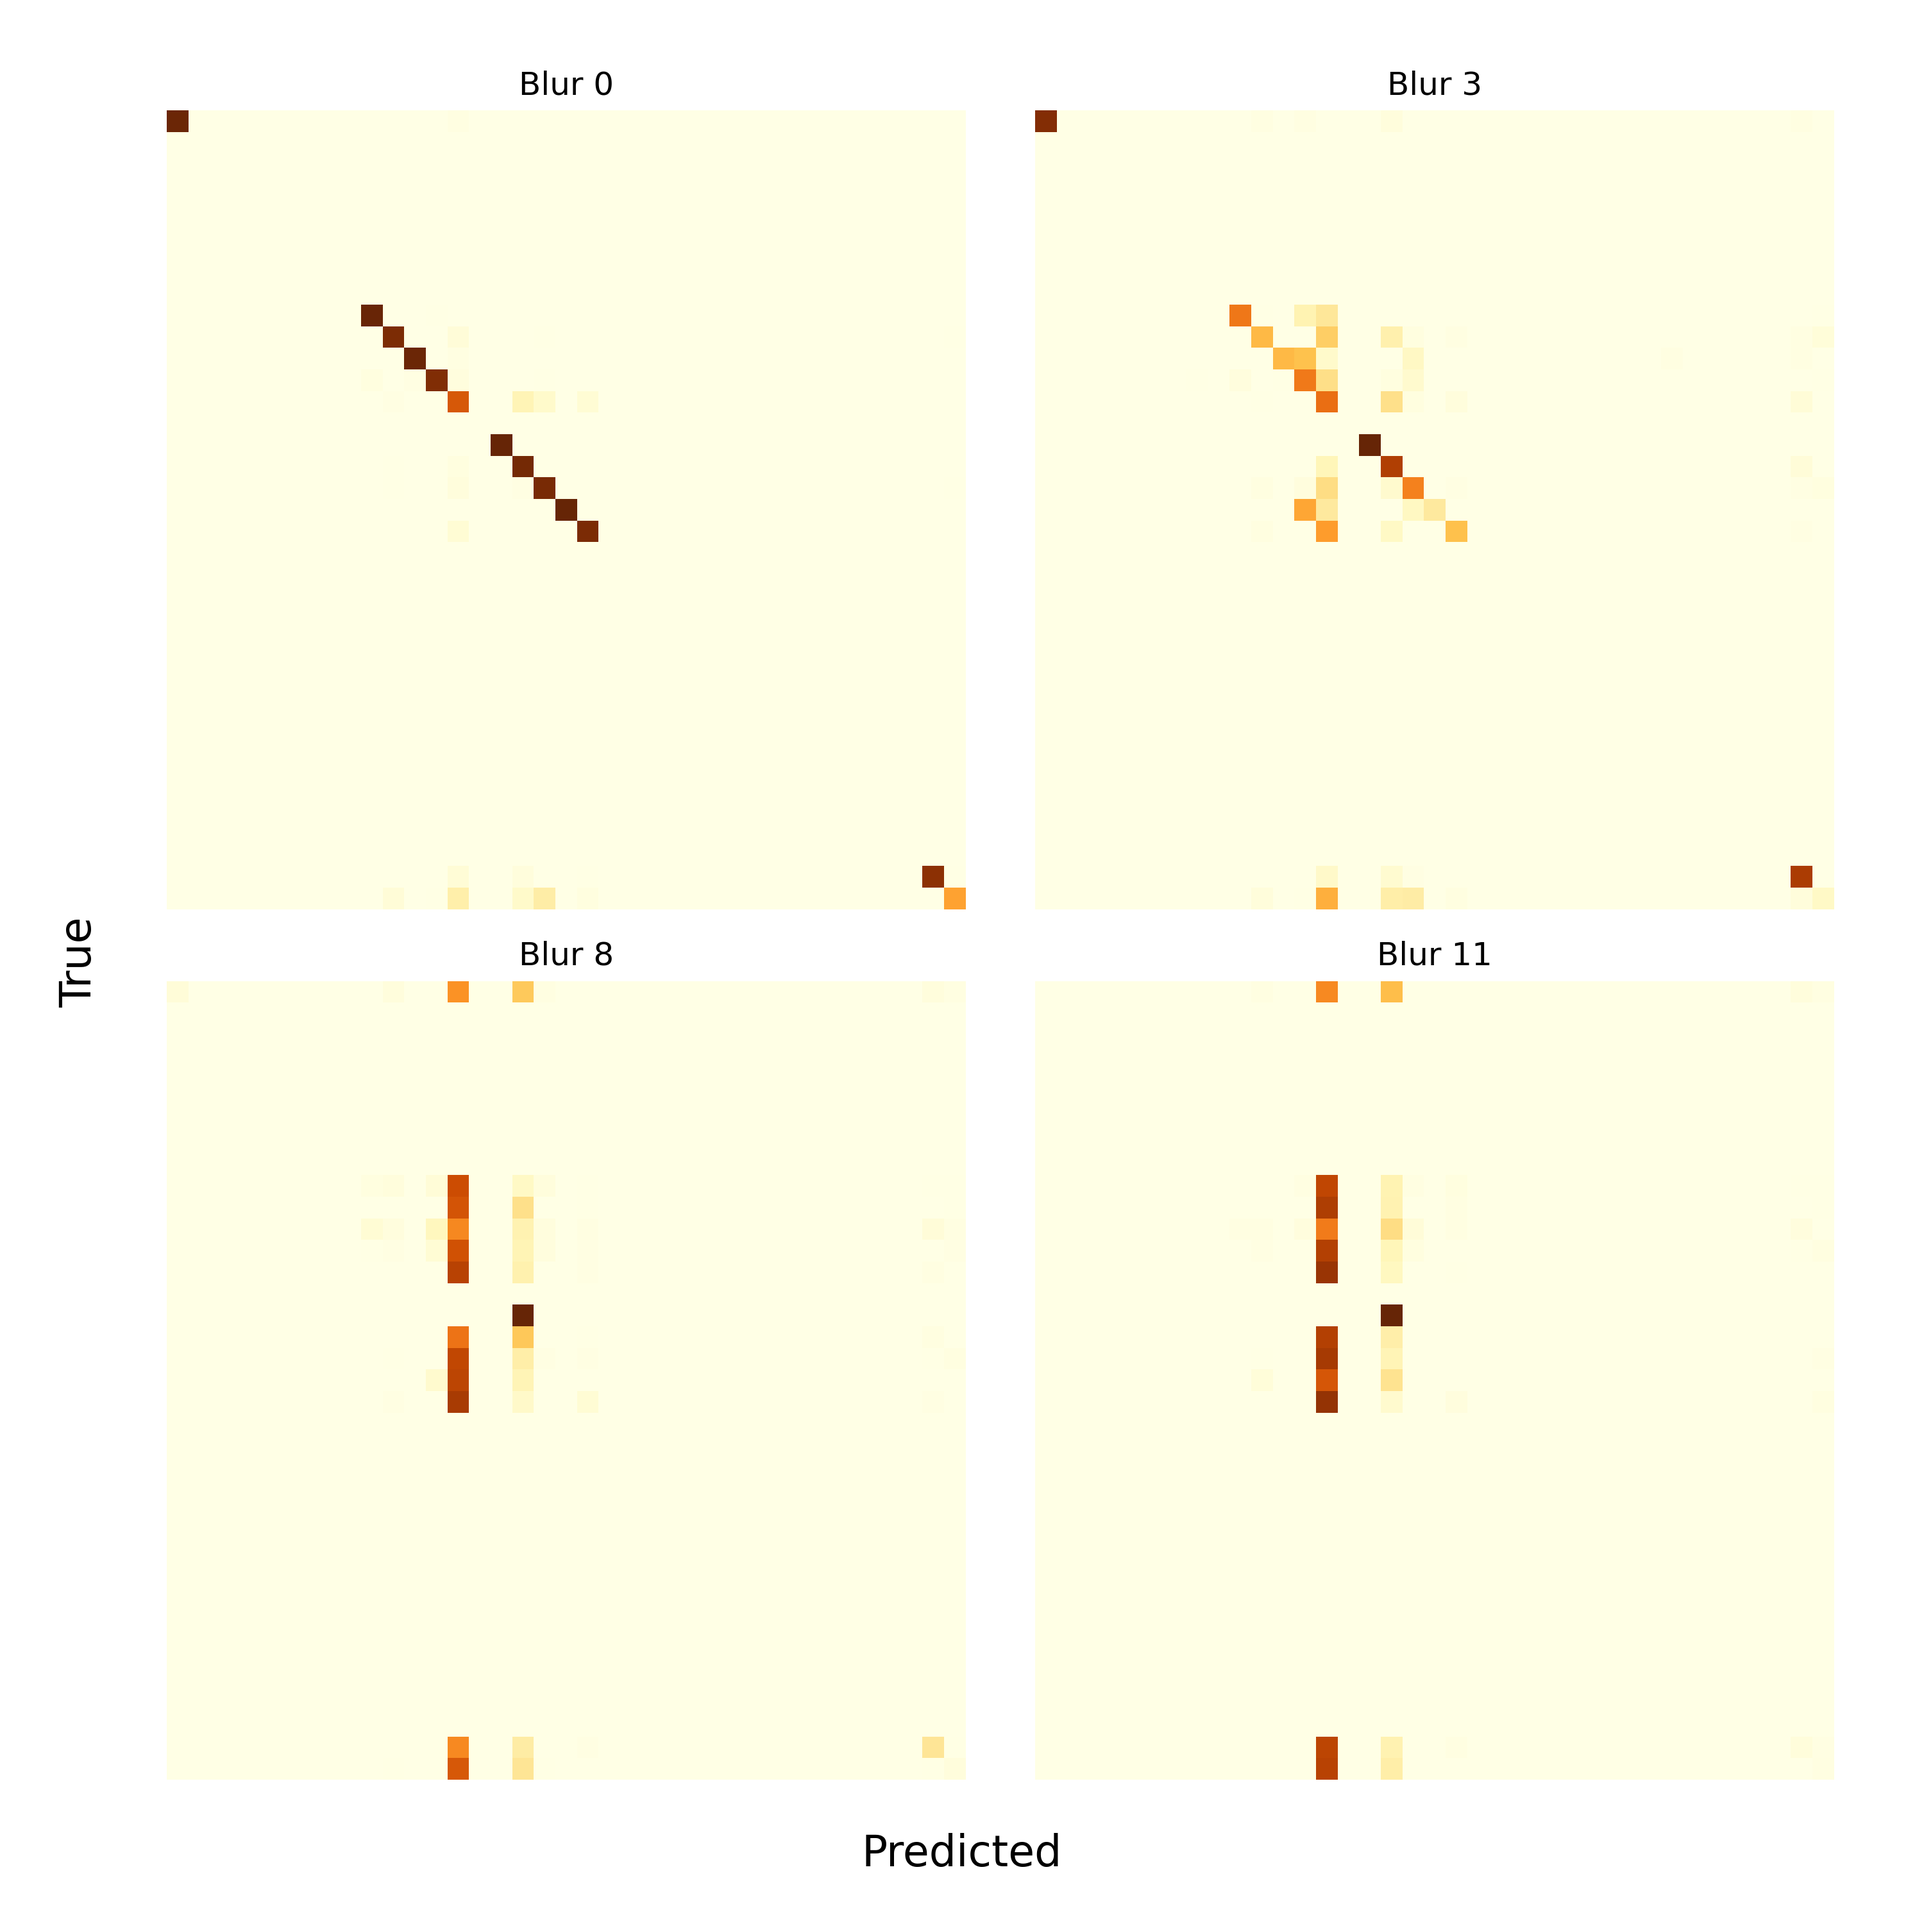
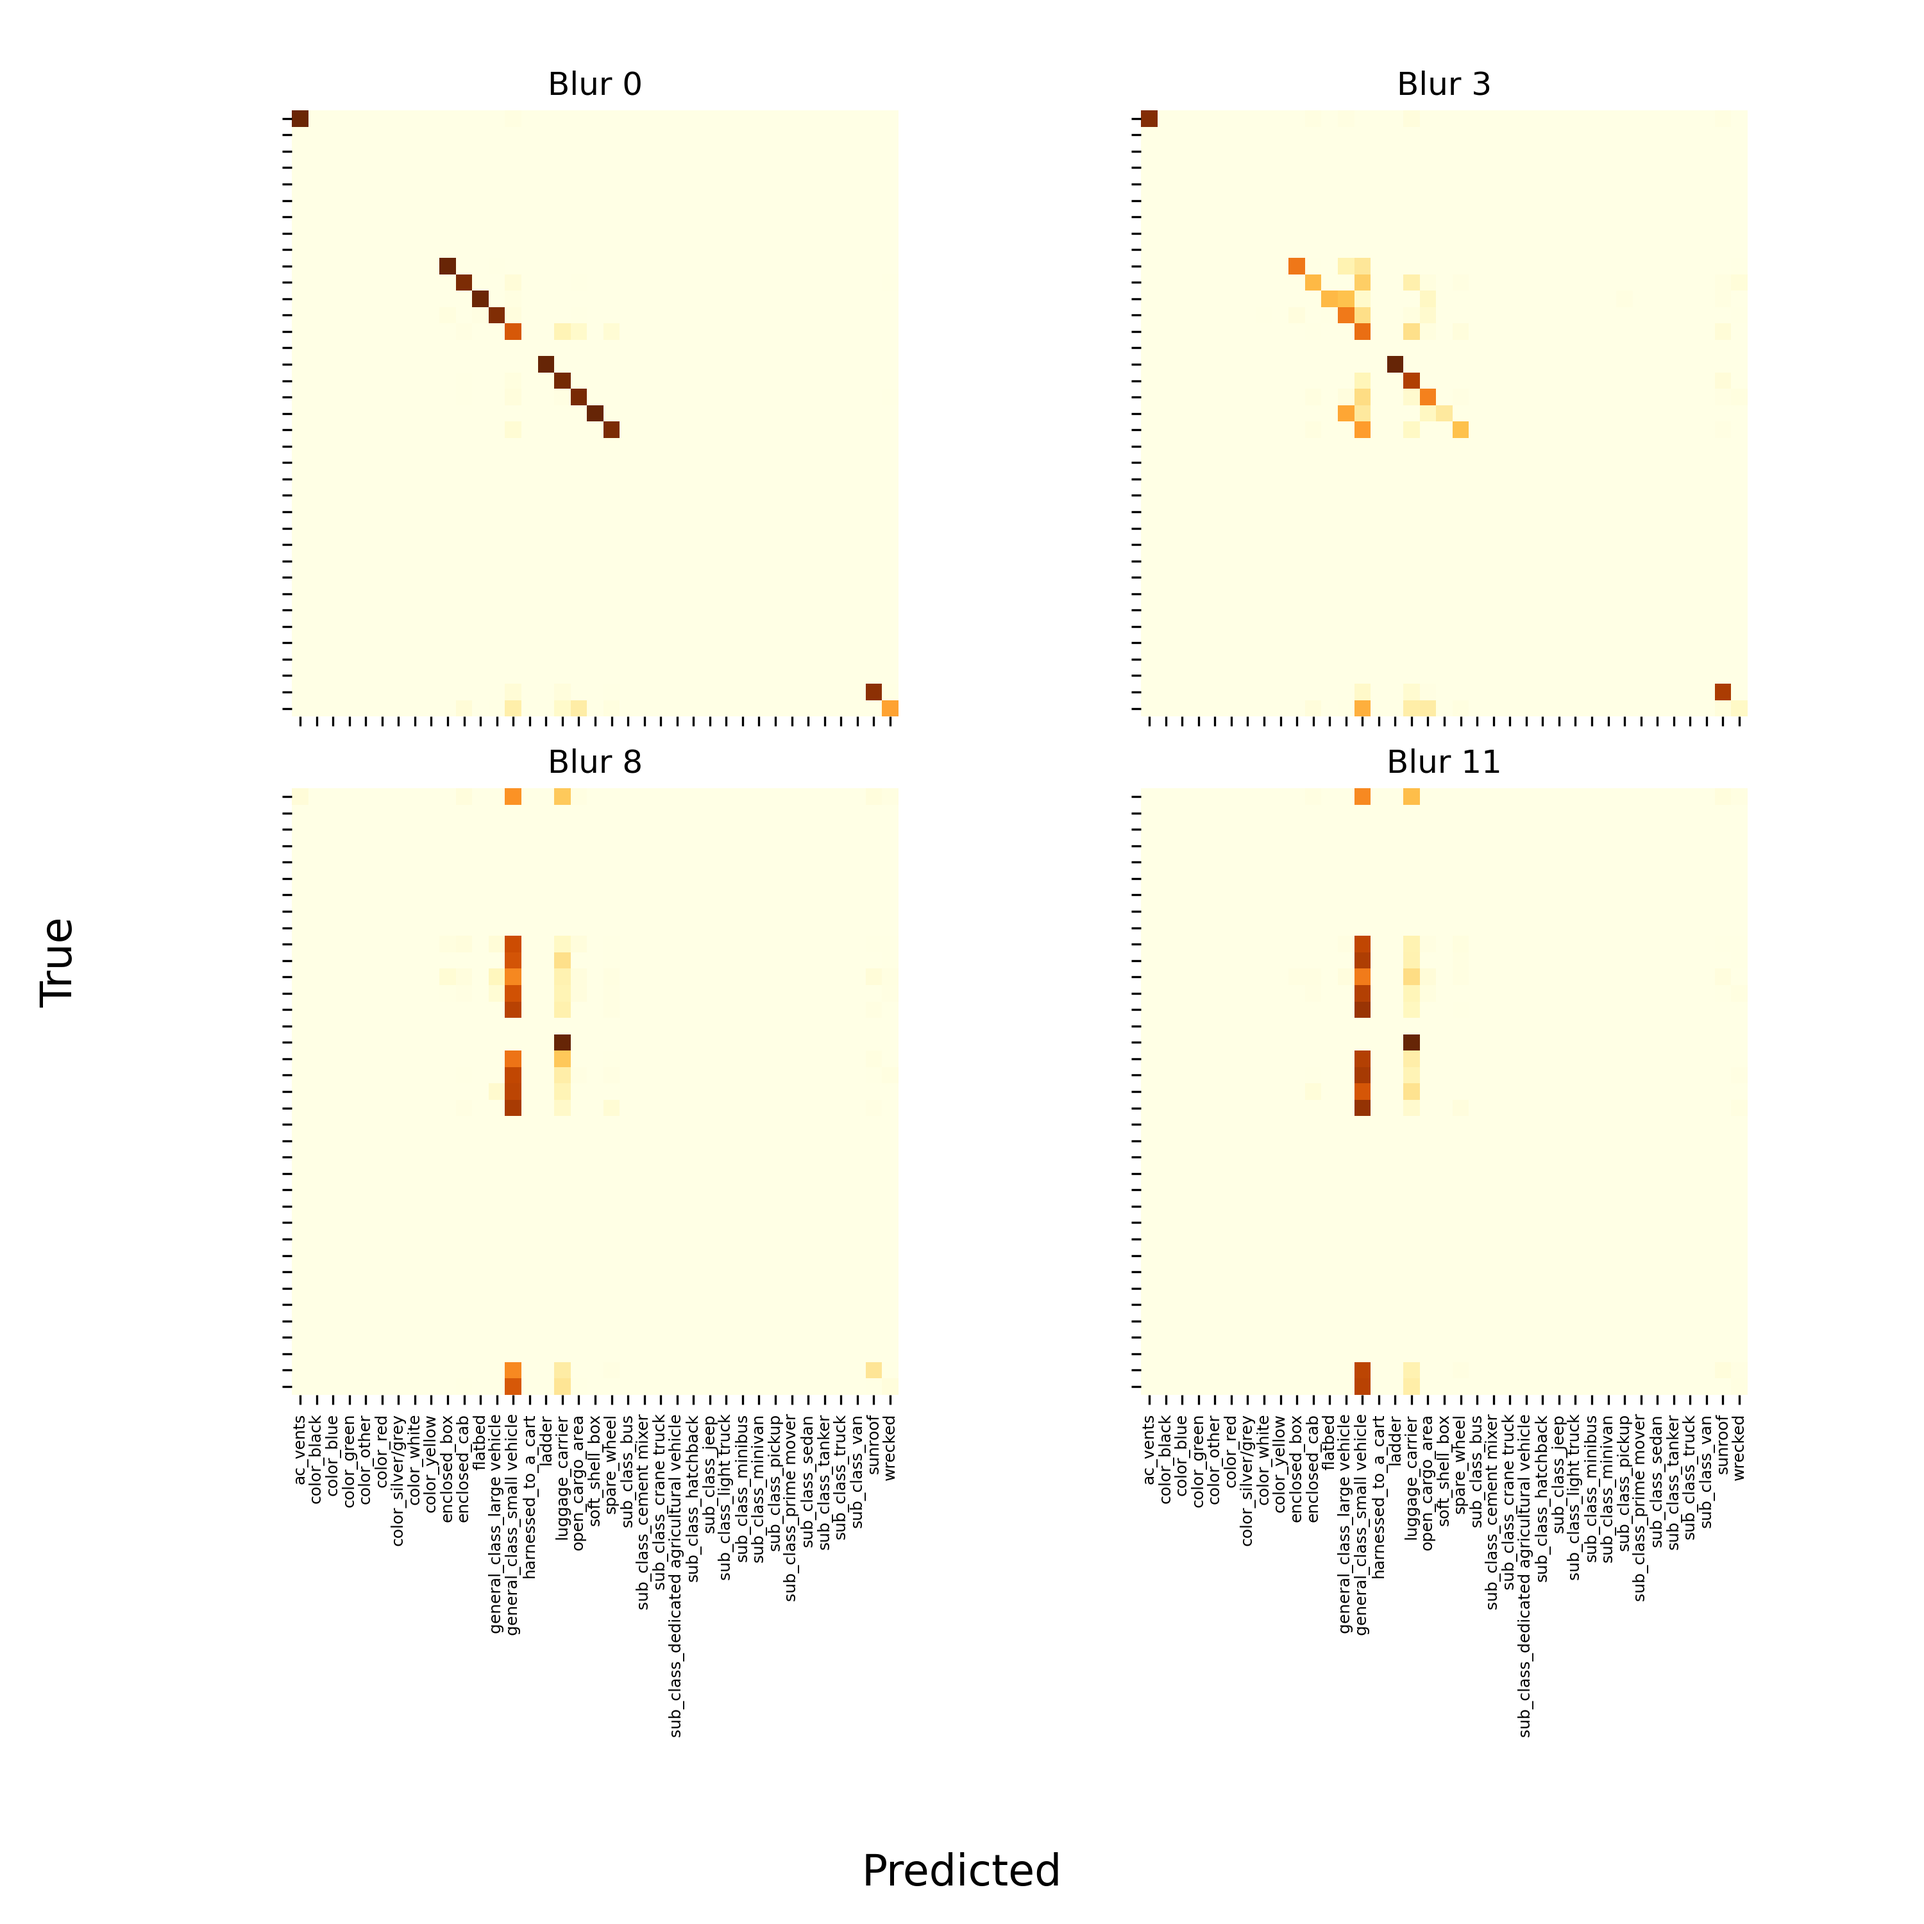
some update on labels

diff --git a/results/analyze_blur_results.py b/results/analyze_blur_results.py
@@ -9,6 +9,7 @@ import glob
 import json
 import argparse
 from collections import Counter
+import math
 
 import numpy as np
 import matplotlib.pyplot as plt
@@ -253,12 +254,11 @@ def plot_score_distributions_by_blur(results_dir, out_dir, levels):
     plt.close()
     print(f"Saved blur-level score distributions -> {os.path.join(out_dir, 'score_distributions_by_blur.png')}")
     
-import math
 
-def plot_confusion_matrices_by_blur(results_dir, out_dir, levels):
+def plot_confusion_matrices_by_blur(results_dir, out_dir, levels, TOP_K=8):
     os.makedirs(out_dir, exist_ok=True)
 
-    # ----- pass 1: collect the union of all subclass labels -----
+    # ---------- 1) collect global subclass label set ----------
     label_set = set()
     for blur_level in levels:
         path = find_json_for_blur(results_dir, blur_level)
@@ -272,7 +272,7 @@ def plot_confusion_matrices_by_blur(results_dir, out_dir, levels):
             pr = rec.get('pred') or rec.get('predictions') or rec.get('prediction')
             scores = rec.get('pred_scores') or rec.get('scores') or rec.get('probs')
 
-            # first true label
+            # true labels
             if isinstance(tr, list) and tr:
                 label_set.update(tr)
             elif isinstance(tr, str):
@@ -290,21 +290,19 @@ def plot_confusion_matrices_by_blur(results_dir, out_dir, levels):
             if top_label is not None:
                 label_set.add(top_label)
 
-    if not label_set:
-        print("No labels found; skipping grid confusion plot.")
-        return
-
     labels = sorted(label_set)
 
-    # ----- pass 2: make one CM per blur level -----
+    # ---------- 2) grid of confusion matrices ----------
     n_levels = len(levels)
-    ncols = 4
+    ncols = 2
     nrows = math.ceil(n_levels / ncols)
 
     fig, axes = plt.subplots(
         nrows=nrows,
         ncols=ncols,
-        figsize=(4.5 * ncols, 4.5 * nrows)
+        figsize=(5 * ncols, 5 * nrows),
+        sharex=True,
+        sharey=True,
     )
     axes = np.array(axes).reshape(-1)
 
@@ -321,6 +319,7 @@ def plot_confusion_matrices_by_blur(results_dir, out_dir, levels):
         for rec in data:
             if not isinstance(rec, dict):
                 continue
+
             tr = rec.get('true') or rec.get('ground_truth') or rec.get('gt')
             pr = rec.get('pred') or rec.get('predictions') or rec.get('prediction')
             scores = rec.get('pred_scores') or rec.get('scores') or rec.get('probs')
@@ -359,243 +358,43 @@ def plot_confusion_matrices_by_blur(results_dir, out_dir, levels):
             cbar=False,
             xticklabels=labels,
             yticklabels=labels,
-            square=True
-        )
-        ax.set_title(f'Blur {blur_level}', fontsize=10)
-        ax.set_xlabel('Predicted', fontsize=8)
-        ax.set_ylabel('True', fontsize=8)
-
-        # make tick labels readable
-        ax.tick_params(axis='x', labelrotation=90, labelsize=6)
-        ax.tick_params(axis='y', labelrotation=0, labelsize=6)
-
-    # turn off any unused axes (if levels < nrows * ncols)
-    for ax in axes[len(levels):]:
-        ax.axis('off')
-
-    fig.tight_layout()
-    out_path = os.path.join(out_dir, 'all_levels_confusion_grid.png')
-    fig.savefig(out_path, dpi=300)
-    plt.close(fig)
-    print(f"Saved grid of confusion matrices -> {out_path}")
-
-def plot_confusion_matrices_by_blur(results_dir, out_dir, levels, TOP_K=8):
-    os.makedirs(out_dir, exist_ok=True)
-
-    n_levels = len(levels)
-    ncols = 2
-    nrows = math.ceil(n_levels / ncols)
-
-    fig, axes = plt.subplots(
-        nrows=nrows,
-        ncols=ncols,
-        figsize=(4 * ncols, 4 * nrows)
-    )
-    axes = np.array(axes).reshape(-1)
-
-    for idx, blur_level in enumerate(levels):
-        ax = axes[idx]
-        path = find_json_for_blur(results_dir, blur_level)
-        if not path:
-            ax.axis('off')
-            continue
-
-        data = load_json_file(path)
-        trues, preds = [], []
-
-        for rec in data:
-            if not isinstance(rec, dict):
-                continue
-
-            tr = rec.get('true') or rec.get('ground_truth') or rec.get('gt')
-            pr = rec.get('pred') or rec.get('predictions') or rec.get('prediction')
-            scores = rec.get('pred_scores') or rec.get('scores') or rec.get('probs')
-
-            # top predicted label
-            top_label = None
-            if isinstance(pr, list) and pr:
-                top_label = pr[0]
-            elif isinstance(scores, dict) and scores:
-                try:
-                    top_label = max(scores, key=lambda k: float(scores[k]))
-                except Exception:
-                    top_label = None
-
-            # first true label
-            true_first = None
-            if isinstance(tr, list) and tr:
-                true_first = tr[0]
-            elif isinstance(tr, str):
-                true_first = tr
-
-            if top_label is not None and true_first is not None:
-                preds.append(top_label)
-                trues.append(true_first)
-
-        if not trues:
-            ax.axis('off')
-            continue
-
-        # ---- pick the most common labels for THIS blur level ----
-        label_counts = Counter(trues + preds)
-        top_labels = [lbl for lbl, _ in label_counts.most_common(TOP_K)]
-
-        # confusion matrix restricted to those labels
-        cm = confusion_matrix(trues, preds, labels=top_labels, normalize='true')
-
-        sns.heatmap(
-            cm,
-            ax=ax,
-            cmap='YlOrBr',
-            cbar=False,
-            xticklabels=top_labels,
-            yticklabels=top_labels,
-            square=True
+            square=True,
         )
 
-        ax.set_title(f'Blur {blur_level}', fontsize=10)
+        ax.set_title(f'Blur {blur_level}', fontsize=12)
+
+    # ---------- 3) show labels only on left column & bottom row ----------
+    for i, ax in enumerate(axes[:n_levels]):
+        row = i // ncols
+        col = i % ncols
+
+        # x-axis labels only on bottom row
+        if row == nrows - 1:
+            ax.set_xticklabels(labels, rotation=90, fontsize=6)
+        else:
+            ax.set_xticklabels([])
         ax.set_xlabel('')
-        ax.set_ylabel('')
 
-        # make the few labels readable
-        ax.tick_params(axis='x', labelrotation=90, labelsize=6)
-        ax.tick_params(axis='y', labelrotation=0, labelsize=6)
+        # y-axis labels only on left column
+        if col == 0:
+            ax.set_yticklabels(labels, rotation=0, fontsize=6)
+        else:
+            ax.set_yticklabels([])
+        ax.set_ylabel('')
 
     # turn off any unused axes
-    for ax in axes[len(levels):]:
+    for ax in axes[n_levels:]:
         ax.axis('off')
 
-    fig.tight_layout()
-    out_path = os.path.join(out_dir, 'confusion_blur_0_3_8_11_top_labels.png')
-    fig.savefig(out_path, dpi=300)
-    plt.close(fig)
-    print(f"Saved grid of confusion matrices -> {out_path}")
-    
-    os.makedirs(out_dir, exist_ok=True)
+    # global axis labels like in your sketch
+    fig.text(0.5, 0.02, 'Predicted', ha='center', fontsize=16)
+    fig.text(0.02, 0.5, 'True', va='center', rotation='vertical', fontsize=16)
 
-    # ---------- 1) collect the union of all class labels ----------
-    label_set = set()
-    for blur_level in levels:
-        path = find_json_for_blur(results_dir, blur_level)
-        if not path:
-            continue
-        data = load_json_file(path)
-        for rec in data:
-            if not isinstance(rec, dict):
-                continue
-            tr = rec.get('true') or rec.get('ground_truth') or rec.get('gt')
-            pr = rec.get('pred') or rec.get('predictions') or rec.get('prediction')
-            scores = rec.get('pred_scores') or rec.get('scores') or rec.get('probs')
-
-            # first true label
-            if isinstance(tr, list) and tr:
-                label_set.update(tr)
-            elif isinstance(tr, str):
-                label_set.add(tr)
-
-            # top predicted label
-            top_label = None
-            if isinstance(pr, list) and pr:
-                top_label = pr[0]
-            elif isinstance(scores, dict) and scores:
-                try:
-                    top_label = max(scores, key=lambda k: float(scores[k]))
-                except Exception:
-                    top_label = None
-            if top_label is not None:
-                label_set.add(top_label)
-
-    labels = sorted(label_set)
-
-    # ---------- 2) make a CM for each blur level ----------
-    n_levels = len(levels)
-    ncols = 2
-    nrows = math.ceil(n_levels / ncols)
-
-    fig, axes = plt.subplots(
-        nrows=nrows,
-        ncols=ncols,
-        figsize=(5 * ncols, 5 * nrows)
-    )
-    axes = np.array(axes).reshape(-1)
-
-    for idx, blur_level in enumerate(levels):
-        ax = axes[idx]
-        path = find_json_for_blur(results_dir, blur_level)
-        if not path:
-            ax.axis('off')
-            continue
-
-        data = load_json_file(path)
-        trues, preds = [], []
-
-        for rec in data:
-            if not isinstance(rec, dict):
-                continue
-
-            tr = rec.get('true') or rec.get('ground_truth') or rec.get('gt')
-            pr = rec.get('pred') or rec.get('predictions') or rec.get('prediction')
-            scores = rec.get('pred_scores') or rec.get('scores') or rec.get('probs')
-
-            # top predicted label
-            top_label = None
-            if isinstance(pr, list) and pr:
-                top_label = pr[0]
-            elif isinstance(scores, dict) and scores:
-                try:
-                    top_label = max(scores, key=lambda k: float(scores[k]))
-                except Exception:
-                    top_label = None
-
-            # first true label
-            true_first = None
-            if isinstance(tr, list) and tr:
-                true_first = tr[0]
-            elif isinstance(tr, str):
-                true_first = tr
-
-            if top_label is not None and true_first is not None:
-                preds.append(top_label)
-                trues.append(true_first)
-
-        if not trues:
-            ax.axis('off')
-            continue
-
-        # each square = confusion matrix for this blur level
-        cm = confusion_matrix(trues, preds, labels=labels, normalize='true')
-
-        sns.heatmap(
-            cm,
-            ax=ax,
-            cmap='YlOrBr',
-            cbar=False,
-            xticklabels=False,   # no class names
-            yticklabels=False,   # no class names
-            square=True
-        )
-
-        # show only the panel title
-        ax.set_title(f'Blur {blur_level}', fontsize=12)
-        ax.set_xlabel('')
-        ax.set_ylabel('')
-        ax.tick_params(left=False, bottom=False)
-
-    # hide any unused axes
-    for ax in axes[len(levels):]:
-        ax.axis('off')
-
-    # ---------- global axis labels for the whole grid ----------
-    fig.text(0.5, 0.03, 'Predicted', ha='center', fontsize=16)
-    fig.text(0.03, 0.5, 'True', va='center', rotation='vertical', fontsize=16)
-
-    fig.tight_layout(rect=[0.06, 0.06, 0.98, 0.98])
-
+    fig.tight_layout(rect=[0.08, 0.08, 0.98, 0.98])
     out_path = os.path.join(out_dir, 'confusion_blur_0_3_8_11_grid.png')
     fig.savefig(out_path, dpi=300)
     plt.close(fig)
     print(f"Saved grid of confusion matrices -> {out_path}")
-
 
 
 
